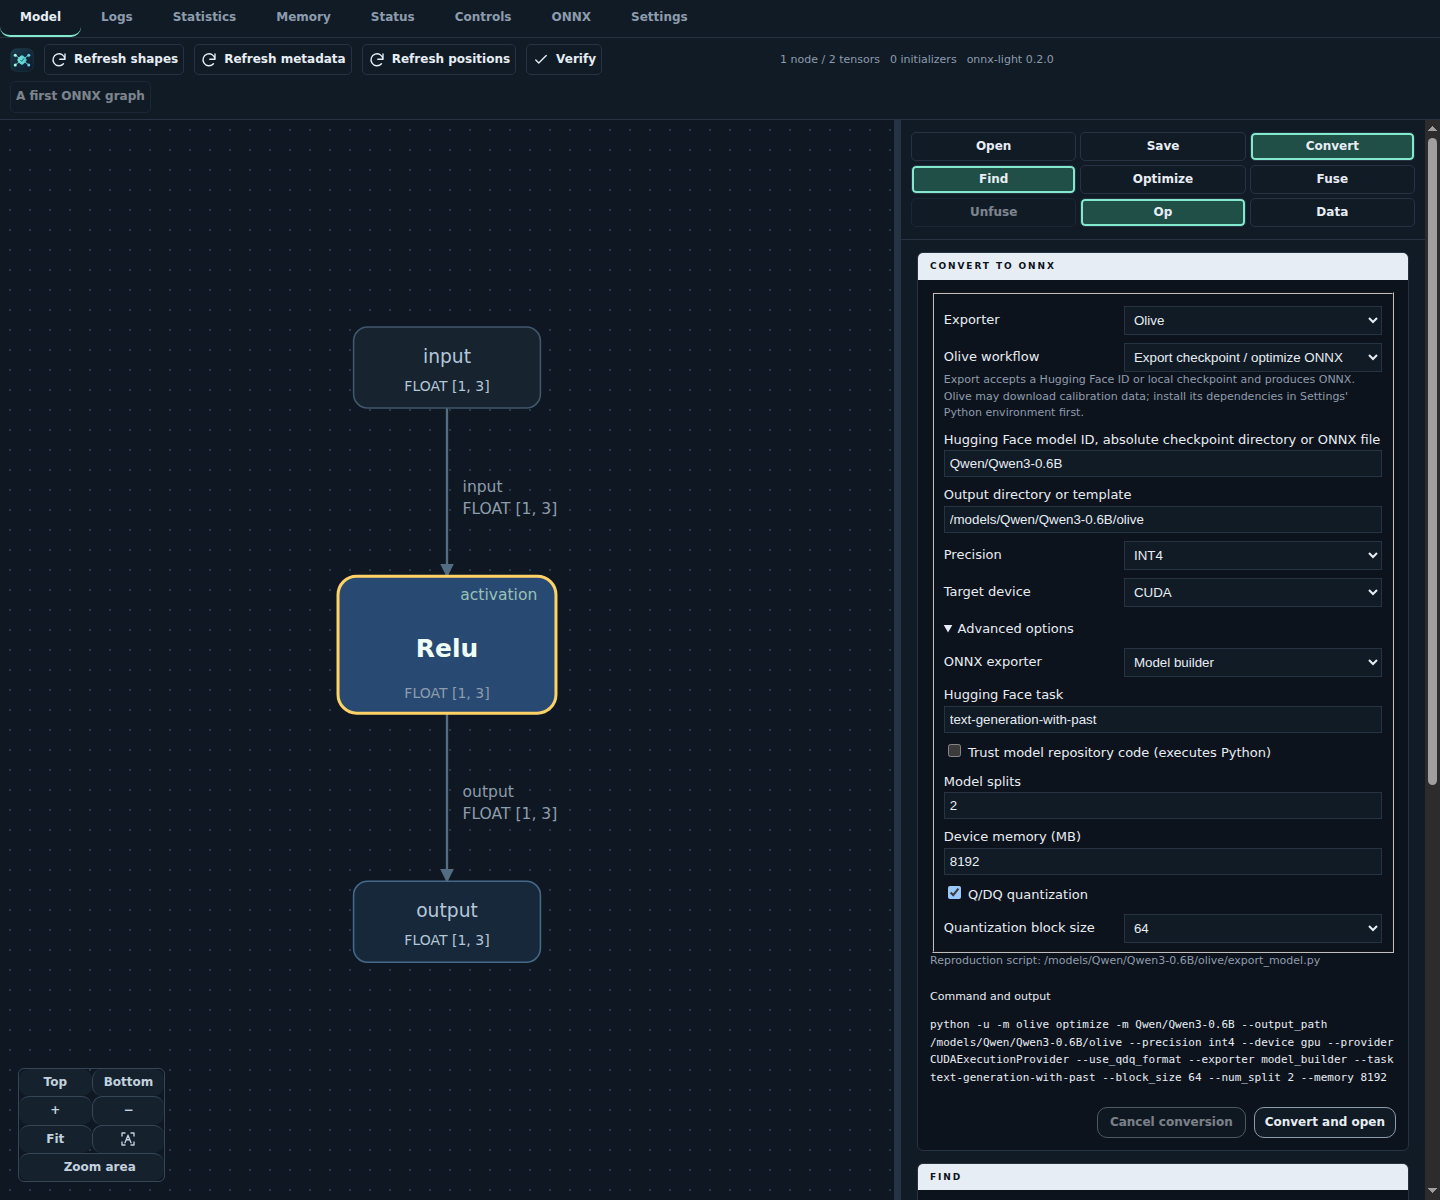
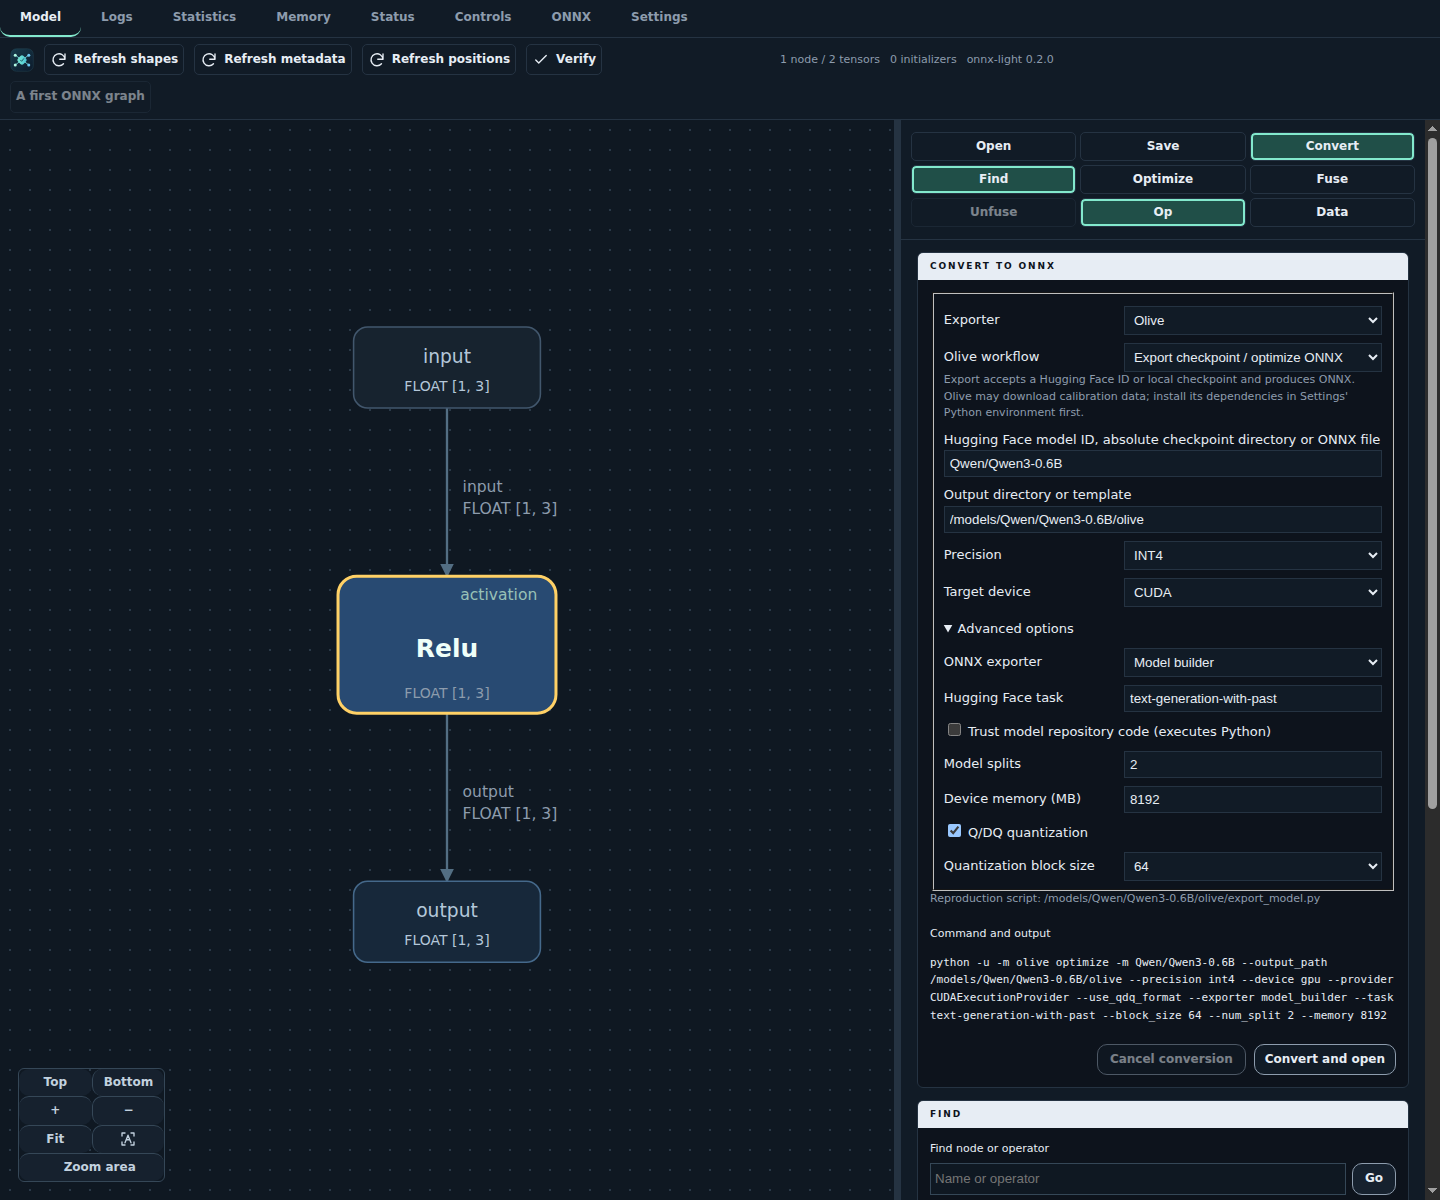
Align all advanced exporter inputs with their labels
Include text and numeric fields in the shared parameter rows, and guard against missing advanced fields with a regression assertion. Refresh real Mobius and Olive screenshots.

Changed region(s): [[0.625, 0.555, 1.0, 1.0], [0.9688, 0.6475, 1.0, 0.6783]]

diff --git a/src/webview.ts b/src/webview.ts
@@ -133,8 +133,10 @@ export function webviewHtml(
                 <details id="export-advanced" class="export-advanced">
                   <summary>Advanced options</summary>
                   <div id="export-layer-options" class="export-option" data-exporters="mbext modelbuilder" hidden>
-                    <label for="export-layer-count">Layer limit (test model)</label>
-                    <input id="export-layer-count" type="number" min="1" step="1" placeholder="All layers" disabled>
+                    <div class="export-field">
+                      <label for="export-layer-count">Layer limit (test model)</label>
+                      <input id="export-layer-count" type="number" min="1" step="1" placeholder="All layers" disabled>
+                    </div>
                   </div>
                   <div class="export-option" data-exporters="mbext modelbuilder" hidden>
                     <label><input id="export-exclude-embeds" type="checkbox" data-export-option="excludeEmbeds" disabled> Exclude embeddings</label>
@@ -149,14 +151,20 @@ export function webviewHtml(
                       <label for="export-olive-exporter">ONNX exporter</label>
                       <select id="export-olive-exporter" data-export-option="oliveExporter" disabled><option value="">Olive default (model builder)</option><option value="model_builder">Model builder</option><option value="dynamo_exporter">PyTorch Dynamo</option><option value="torchscript_exporter">PyTorch TorchScript</option></select>
                     </div>
-                    <label for="export-olive-task">Hugging Face task</label>
-                    <input id="export-olive-task" placeholder="Olive default" list="export-olive-tasks" data-export-option="task" disabled>
+                    <div class="export-field">
+                      <label for="export-olive-task">Hugging Face task</label>
+                      <input id="export-olive-task" placeholder="Olive default" list="export-olive-tasks" data-export-option="task" disabled>
+                    </div>
                     <datalist id="export-olive-tasks"><option value="text-generation-with-past"><option value="text-generation"><option value="text-classification"><option value="feature-extraction"></datalist>
                     <label><input id="export-olive-trust-code" type="checkbox" data-export-option="trustRemoteCode" disabled> Trust model repository code (executes Python)</label>
-                    <label for="export-olive-splits">Model splits</label>
-                    <input id="export-olive-splits" type="number" min="1" step="1" placeholder="Olive default" data-export-option="numSplits" disabled>
-                    <label for="export-olive-memory">Device memory (MB)</label>
-                    <input id="export-olive-memory" type="number" min="1" step="1" placeholder="Olive default" data-export-option="memory" disabled>
+                    <div class="export-field">
+                      <label for="export-olive-splits">Model splits</label>
+                      <input id="export-olive-splits" type="number" min="1" step="1" placeholder="Olive default" data-export-option="numSplits" disabled>
+                    </div>
+                    <div class="export-field">
+                      <label for="export-olive-memory">Device memory (MB)</label>
+                      <input id="export-olive-memory" type="number" min="1" step="1" placeholder="Olive default" data-export-option="memory" disabled>
+                    </div>
                   </div>
                   <div class="export-option" data-exporters="mbext modelbuilder olive" data-precisions="int4 int8" hidden>
                     <label><input id="export-use-qdq" type="checkbox" data-export-option="useQdq" disabled> Q/DQ quantization</label>
@@ -174,12 +182,16 @@ export function webviewHtml(
                     </div>
                   </div>
                   <div class="export-option" data-exporters="mbext" hidden>
-                    <label for="export-opset">ONNX opset</label>
-                    <input id="export-opset" type="number" min="1" step="1" placeholder="Exporter default" data-export-option="opset" disabled>
+                    <div class="export-field">
+                      <label for="export-opset">ONNX opset</label>
+                      <input id="export-opset" type="number" min="1" step="1" placeholder="Exporter default" data-export-option="opset" disabled>
+                    </div>
                   </div>
                   <div class="export-option" data-exporters="mbext mobius" hidden>
-                    <label for="export-max-shard-size">Maximum weight file size</label>
-                    <input id="export-max-shard-size" placeholder="2GB" pattern="[1-9][0-9]*([KkMmGg]?[Bb])" data-export-option="maxShardSize" disabled>
+                    <div class="export-field">
+                      <label for="export-max-shard-size">Maximum weight file size</label>
+                      <input id="export-max-shard-size" placeholder="2GB" pattern="[1-9][0-9]*([KkMmGg]?[Bb])" data-export-option="maxShardSize" disabled>
+                    </div>
                   </div>
                   <div class="export-option" data-exporters="mobius" hidden>
                     <label><input id="export-no-weights" type="checkbox" data-export-option="noWeights" disabled> Graph without weights</label>
@@ -198,8 +210,10 @@ export function webviewHtml(
                     <label><input id="export-static-cache" type="checkbox" data-export-option="staticCache" disabled> Static KV cache</label>
                   </div>
                   <div class="export-option" data-exporters="mobius" data-requires="export-static-cache" hidden>
-                    <label for="export-max-sequence-length">Maximum sequence length</label>
-                    <input id="export-max-sequence-length" type="number" min="1" step="1" placeholder="Model default" data-export-option="maxSequenceLength" disabled>
+                    <div class="export-field">
+                      <label for="export-max-sequence-length">Maximum sequence length</label>
+                      <input id="export-max-sequence-length" type="number" min="1" step="1" placeholder="Model default" data-export-option="maxSequenceLength" disabled>
+                    </div>
                   </div>
                 </details>
               </fieldset>
